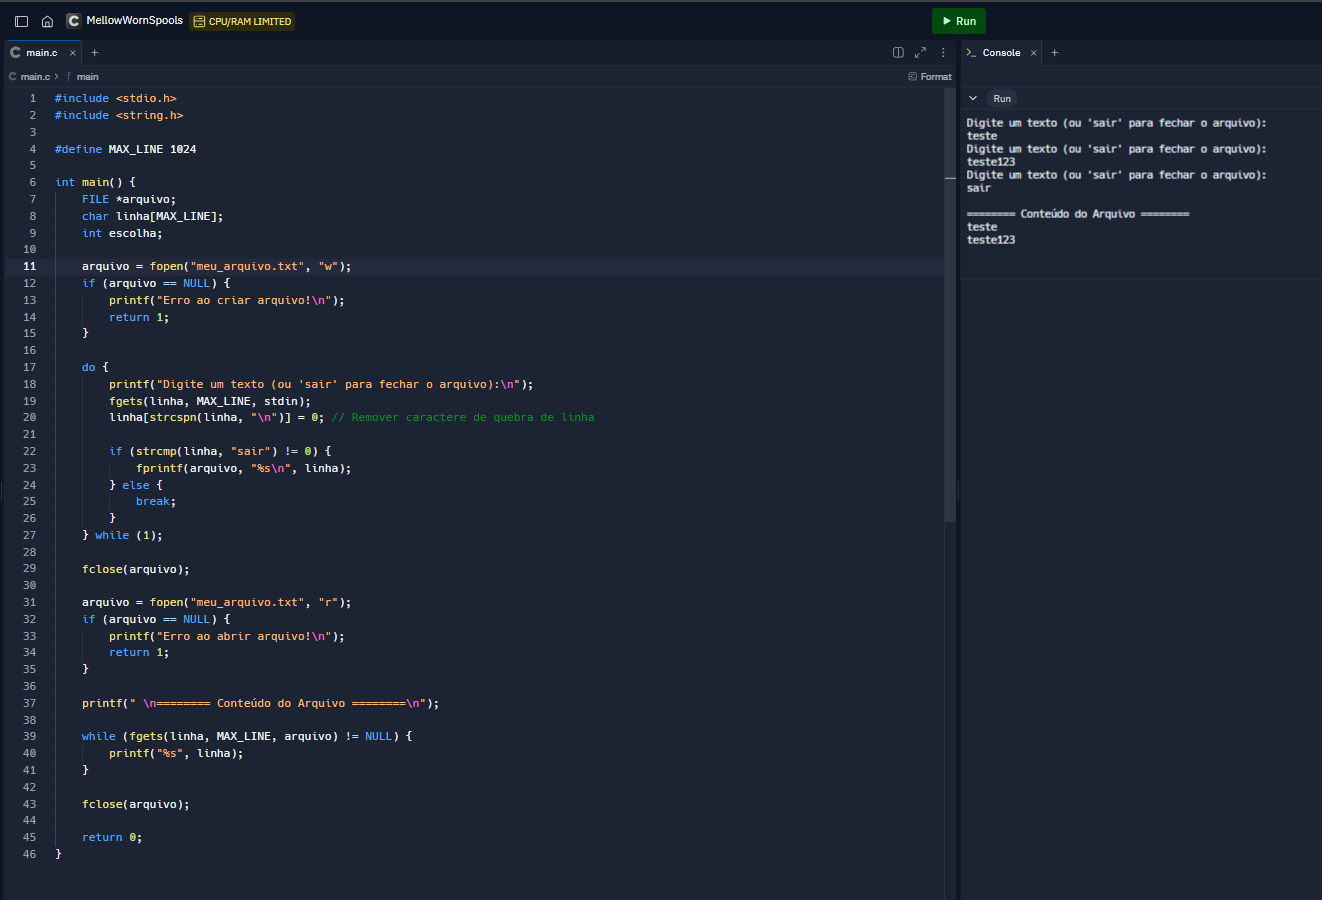
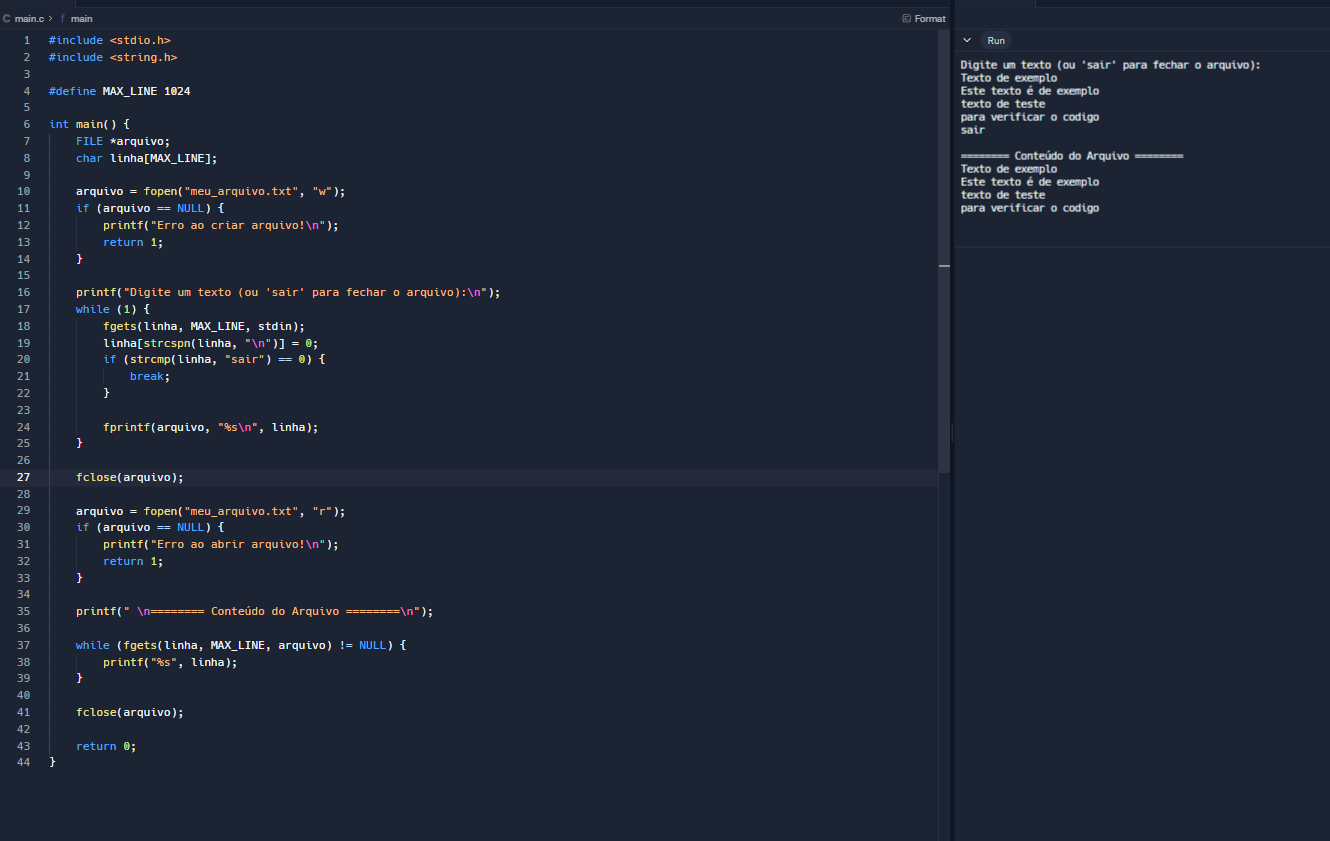
avaliacao05

Changed region(s): [[0.0, 0.0, 1.0, 0.9584], [0.062, 0.9275, 0.093, 0.9584]]

diff --git a/Avaliacao-05/Codigo.c b/Avaliacao-05/Codigo.c
@@ -6,7 +6,6 @@
 int main() {
     FILE *arquivo;
     char linha[MAX_LINE];
-    int escolha;
 
     arquivo = fopen("meu_arquivo.txt", "w");
     if (arquivo == NULL) {
@@ -14,17 +13,16 @@ int main() {
         return 1;
     }
 
-    do {
-        printf("Digite um texto (ou 'sair' para fechar o arquivo):\n");
+    printf("Digite um texto (ou 'sair' para fechar o arquivo):\n");
+    while (1) {
         fgets(linha, MAX_LINE, stdin);
         linha[strcspn(linha, "\n")] = 0; 
-
-        if (strcmp(linha, "sair") != 0) {
-            fprintf(arquivo, "%s\n", linha);
-        } else {
+        if (strcmp(linha, "sair") == 0) {
             break;
         }
-    } while (1);
+
+        fprintf(arquivo, "%s\n", linha);
+    }
 
     fclose(arquivo);
 
